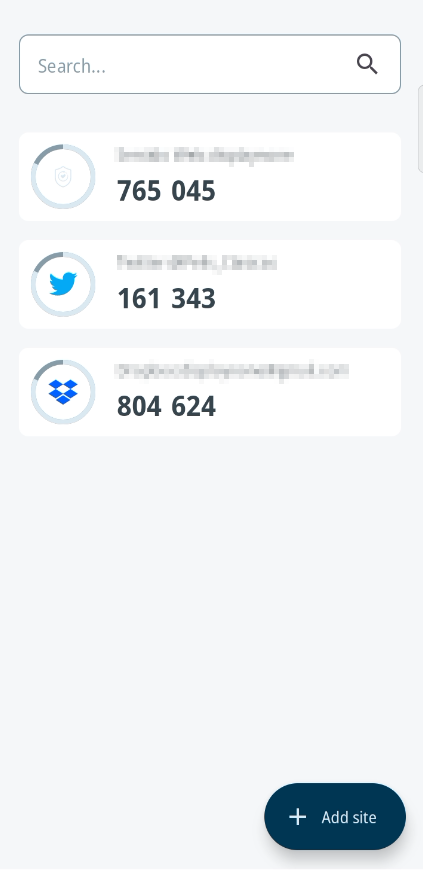
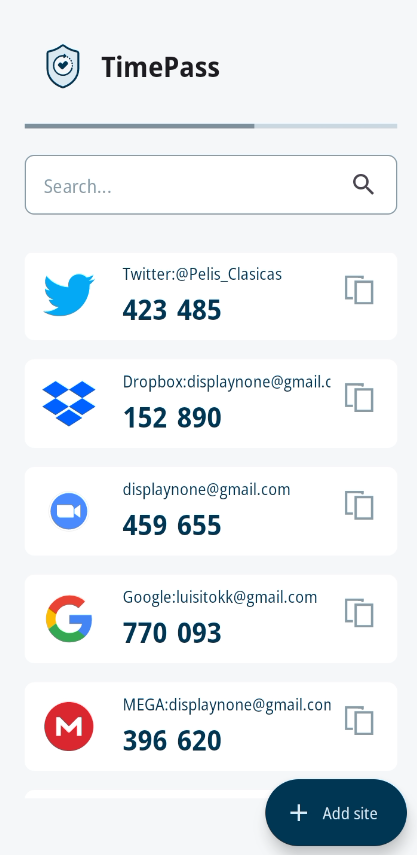
feat: added topbar

diff --git a/src/icons/LogoIcon.tsx b/src/icons/LogoIcon.tsx
@@ -1,0 +1,48 @@
+import { FC } from 'react';
+import Svg, { Ellipse, G, Path } from 'react-native-svg';
+import { ComponentWithSize } from '../types';
+
+export const LogoIcon: FC<ComponentWithSize> = ({
+  width = 48,
+  height = 48,
+}) => {
+  return (
+    <Svg width={width} height={height} viewBox="0 0 210 210">
+      <G transform="matrix(.68871 0 0 .71298 32.685 30.138)">
+        <G transform="matrix(2.5254 0 0 2.5254 -137.34 -80.212)">
+          <Path
+            d="m71.693 51.947-0.0074 29.582c3.6358 13.472 12.552 20.154 23.915 23.689 10.33-3.3699 20.458-7.1975 24.791-24.201l0.0588-29.863c-9.0909-1.1425-16.996-4.9599-24.534-9.6039-7.2217 4.6892-15.274 8.1865-24.223 10.396z"
+            fill="#dae9f2"
+          />
+          <Ellipse
+            cx="95.545"
+            cy="71.83"
+            rx="14.924"
+            ry="14.644"
+            fill="#f5f8fa"
+          />
+          <Path
+            d="m95.962 106.79c-0.6446 0-1.2892-0.10186-1.9026-0.30483-14.562-4.8371-23.971-16.383-23.971-29.416v-23.634c0-2.0208 1.4394-3.7494 3.4222-4.1107v0c7.6816-1.397 14.38-4.2824 19.907-8.5753 1.4974-1.1628 3.5895-1.1628 5.0876 0 5.5278 4.2928 12.224 7.1783 19.907 8.5753 1.9821 0.36059 3.4215 2.0899 3.4215 4.1107v23.634c0 13.033-9.408 24.58-23.968 29.416-0.61411 0.20297-1.2587 0.30483-1.9033 0.30483zm-21.919-54.539c-0.56802 0.10334-0.9799 0.60148-0.9799 1.1844v23.634c0 11.729 8.6095 22.168 21.933 26.594 0.62229 0.20743 1.3085 0.20595 1.933 0 13.322-4.4252 21.931-14.864 21.931-26.594v-23.634c0-0.58289-0.41263-1.0818-0.9799-1.1844-8.1574-1.484-15.289-4.5635-21.198-9.1522-0.42378-0.32787-1.0156-0.32862-1.4401 0-5.9092 4.5888-13.041 7.6682-21.199 9.1522z"
+            fill="#003554"
+            strokeLinecap="round"
+          />
+          <G
+            transform="matrix(.50377 0 0 .50377 13.907 21.721)"
+            fill="#003554"
+            strokeLinecap="round"
+          >
+            <Path d="m163.15 131.65c-2.8899 0-5.8252-0.39925-8.7381-1.2394-16.733-4.8267-26.421-22.366-21.596-39.099 2.3375-8.1062 7.692-14.818 15.076-18.896 7.385-4.0795 15.916-5.0393 24.022-2.7003 1.1836 0.34126 1.8669 1.5777 1.5256 2.7613s-1.5769 1.8661-2.7613 1.5249c-6.9619-2.0066-14.287-1.1836-20.629 2.3189-6.3419 3.5025-10.94 9.266-12.947 16.227-4.1434 14.369 4.1761 29.432 18.546 33.576 14.369 4.1442 29.432-4.1769 33.576-18.546 0.34125-1.1836 1.5762-1.8676 2.7613-1.5256 1.1836 0.34125 1.8669 1.5777 1.5256 2.7613-3.9865 13.821-16.647 22.837-30.361 22.837z" />
+            <Path d="m177.72 76.798c-0.3762 0-0.75835-0.09517-1.1078-0.2959l-0.29591-0.16654c-1.078-0.59627-1.4684-1.9539-0.8721-3.0319 0.59701-1.0773 1.9539-1.4691 3.0312-0.87136l0.35687 0.20074c1.0691 0.61337 1.4379 1.9762 0.82377 3.0445-0.41114 0.7182-1.1628 1.1204-1.936 1.1204z" />
+            <Path d="m191.84 96c-1.026 0-1.9487-0.71151-2.1769-1.7546-0.0483-0.2223-0.10111-0.44386-0.15539-0.66393-0.2959-1.1955 0.43271-2.4052 1.629-2.7018 1.1985-0.2959 2.4052 0.43345 2.7018 1.629 0.0647 0.26022 0.12565 0.52118 0.1829 0.78363 0.26319 1.2037-0.49962 2.3925-1.7026 2.655-0.16134 0.03643-0.32119 0.05279-0.4788 0.05279zm-2.8379-7.6407c-0.79404 0-1.5628-0.42453-1.9658-1.1725-0.10855-0.20074-0.21933-0.39999-0.33234-0.59776-0.61337-1.0684-0.2446-2.4319 0.82303-3.0453 1.0676-0.61337 2.4319-0.24535 3.0453 0.82303 0.13382 0.23271 0.26393 0.46616 0.39032 0.70184 0.58438 1.0847 0.17918 2.4379-0.90481 3.0222-0.33605 0.18215-0.69813 0.2684-1.0557 0.2684zm-4.8282-6.5724c-0.5814 0-1.1628-0.22602-1.5992-0.67657-0.1591-0.16282-0.31895-0.32341-0.48177-0.48252-0.88326-0.85872-0.90184-2.2713-0.0424-3.1538 0.85872-0.88325 2.2721-0.90184 3.1538-0.04238 0.19256 0.18736 0.38289 0.37769 0.5695 0.57025 0.85872 0.884 0.8379 2.2959-0.0454 3.1538-0.43419 0.4223-0.99478 0.63121-1.5546 0.63121z" />
+            <Path d="m192.49 103.76c-0.0402 0-0.0796-7.5e-4 -0.11971-3e-3 -1.2304-0.0654-2.1747-1.1152-2.11-2.3449l0.0156-0.33159c0.0431-1.2319 1.0721-2.2074 2.3078-2.1509 1.2312 0.04387 2.194 1.0766 2.1509 2.3078l-0.0178 0.4104c-0.0647 1.1896-1.049 2.1122-2.2267 2.1122z" />
+            <Path d="m166.41 77.515c-0.41635 0-0.83195-0.11598-1.1985-0.34944-0.76058-0.48475-1.1546-1.3806-0.99775-2.2684l1.4661-8.3151c0.15613-0.88846 0.8327-1.5955 1.7137-1.7903 0.88474-0.19702 1.7933 0.15985 2.31 0.89812l3.4245 4.8906c0.70705 1.0096 0.4617 2.4-0.5472 3.1063l-4.8906 3.4245c-0.38438 0.26914-0.8327 0.40371-1.2803 0.40371z" />
+          </G>
+          <Path
+            d="m88.75 69.738c-0.62823 0.72528-1.0266 1.8444-0.0843 3.0595l4.6977 4.6109c1.4799 1.0962 2.4348 0.75797 3.4272-0.09651l6.634-6.6297c0.67097-0.84098 0.98401-1.7671 0.2439-2.9435l-1.724-1.804c-1.0004-0.64847-2.0465-1.0445-3.403 0.27478l-3.5056 3.5103-1.568-1.5723c-1.5088-1.1273-2.4794-0.6909-3.3229 0.14453z"
+            fill="#003554"
+          />
+        </G>
+      </G>
+    </Svg>
+  );
+};

diff --git a/src/components/TopBar.tsx b/src/components/TopBar.tsx
@@ -1,0 +1,24 @@
+import { FC } from 'react';
+import { StyleSheet, View } from 'react-native';
+import { LogoIcon } from '../icons/LogoIcon';
+import Text from '../ui/Text';
+
+const TopBar: FC = () => {
+  return (
+    <View style={styles.head}>
+      <LogoIcon width={64} height={64} />
+      <Text size="headlineSmall" variant={['marginless', 'bold']}>
+        TimePass
+      </Text>
+    </View>
+  );
+};
+
+const styles = StyleSheet.create({
+  head: {
+    flexDirection: 'row',
+    alignItems: 'center',
+  },
+});
+
+export default TopBar;

diff --git a/app/(home)/_layout.tsx b/app/(home)/_layout.tsx
@@ -3,10 +3,12 @@ import React, { FC } from 'react';
 import { Slot } from 'expo-router';
 import AddSite from '../../src/components/AddSite';
 import Container from '../../src/ui/Container';
+import TopBar from '../../src/components/TopBar';
 
 const HomeLayout: FC = () => {
   return (
     <Container>
+      <TopBar />
       <Slot />
       <AddSite />
     </Container>
